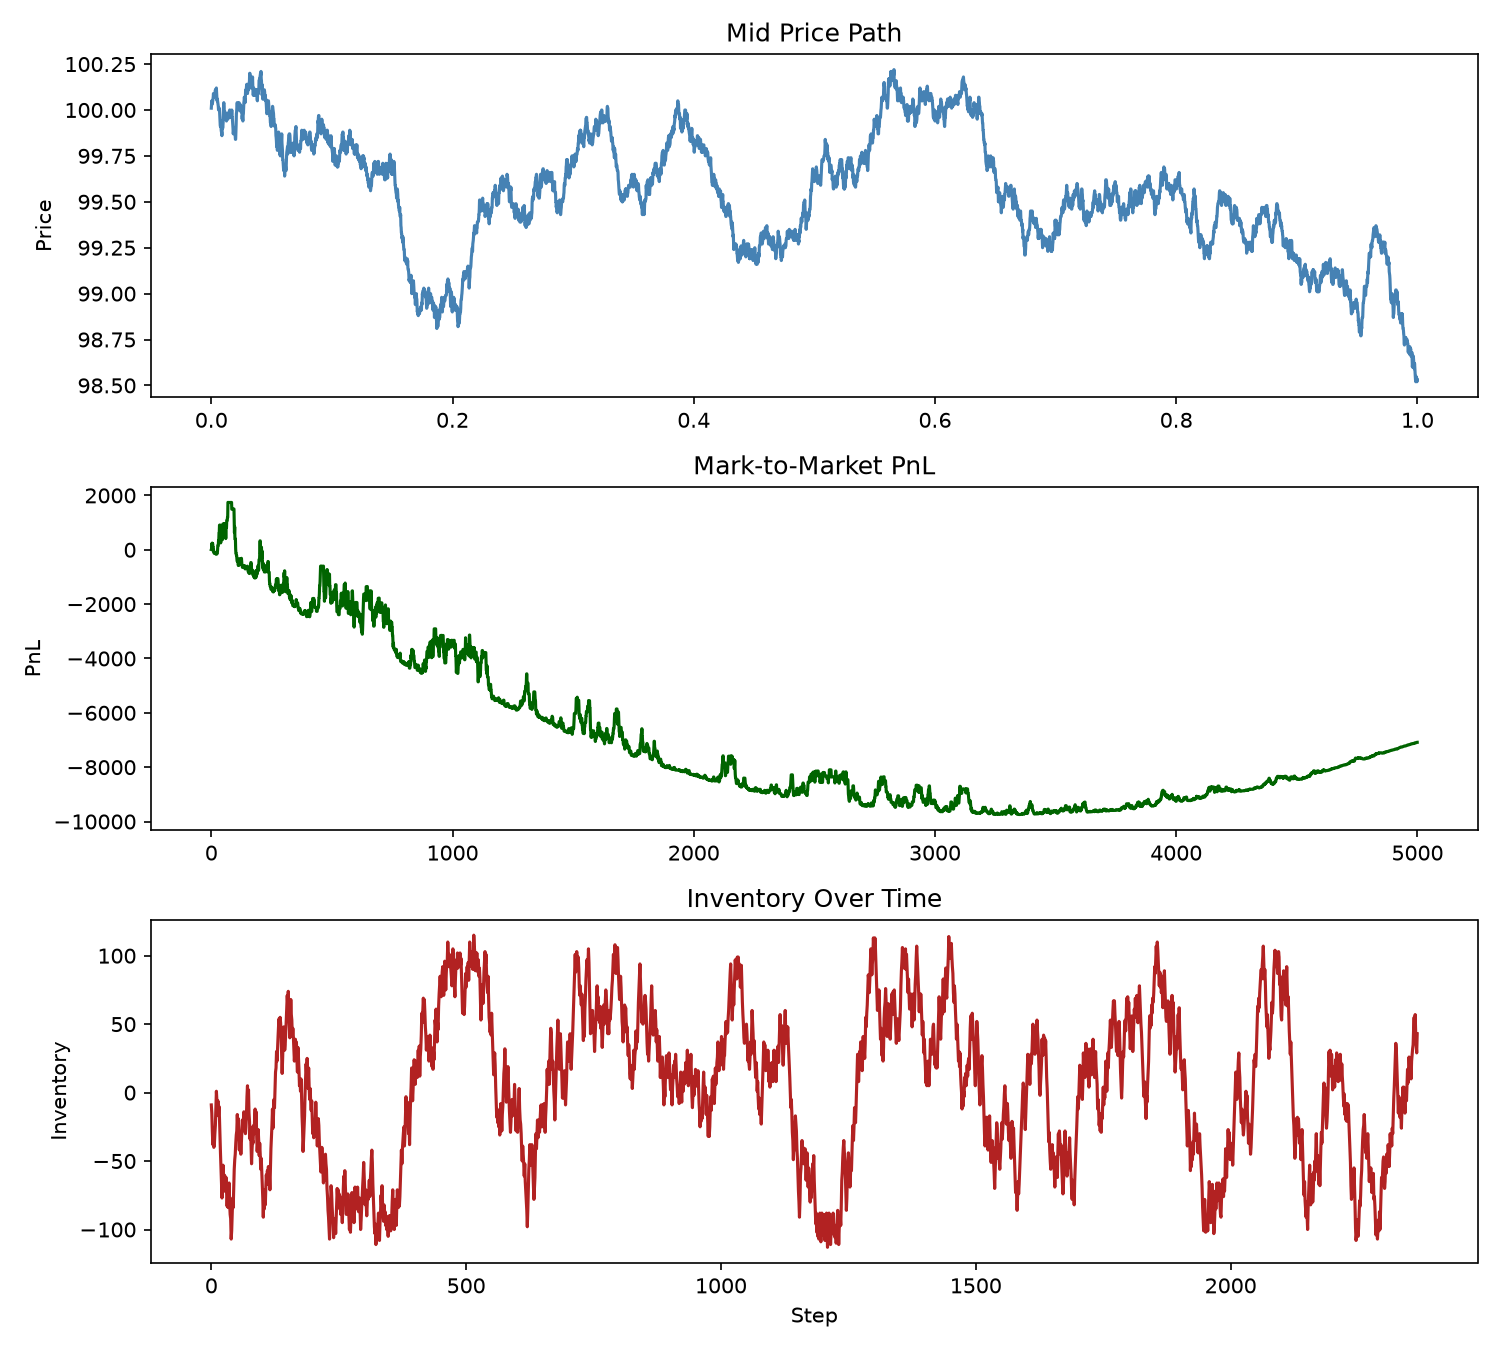
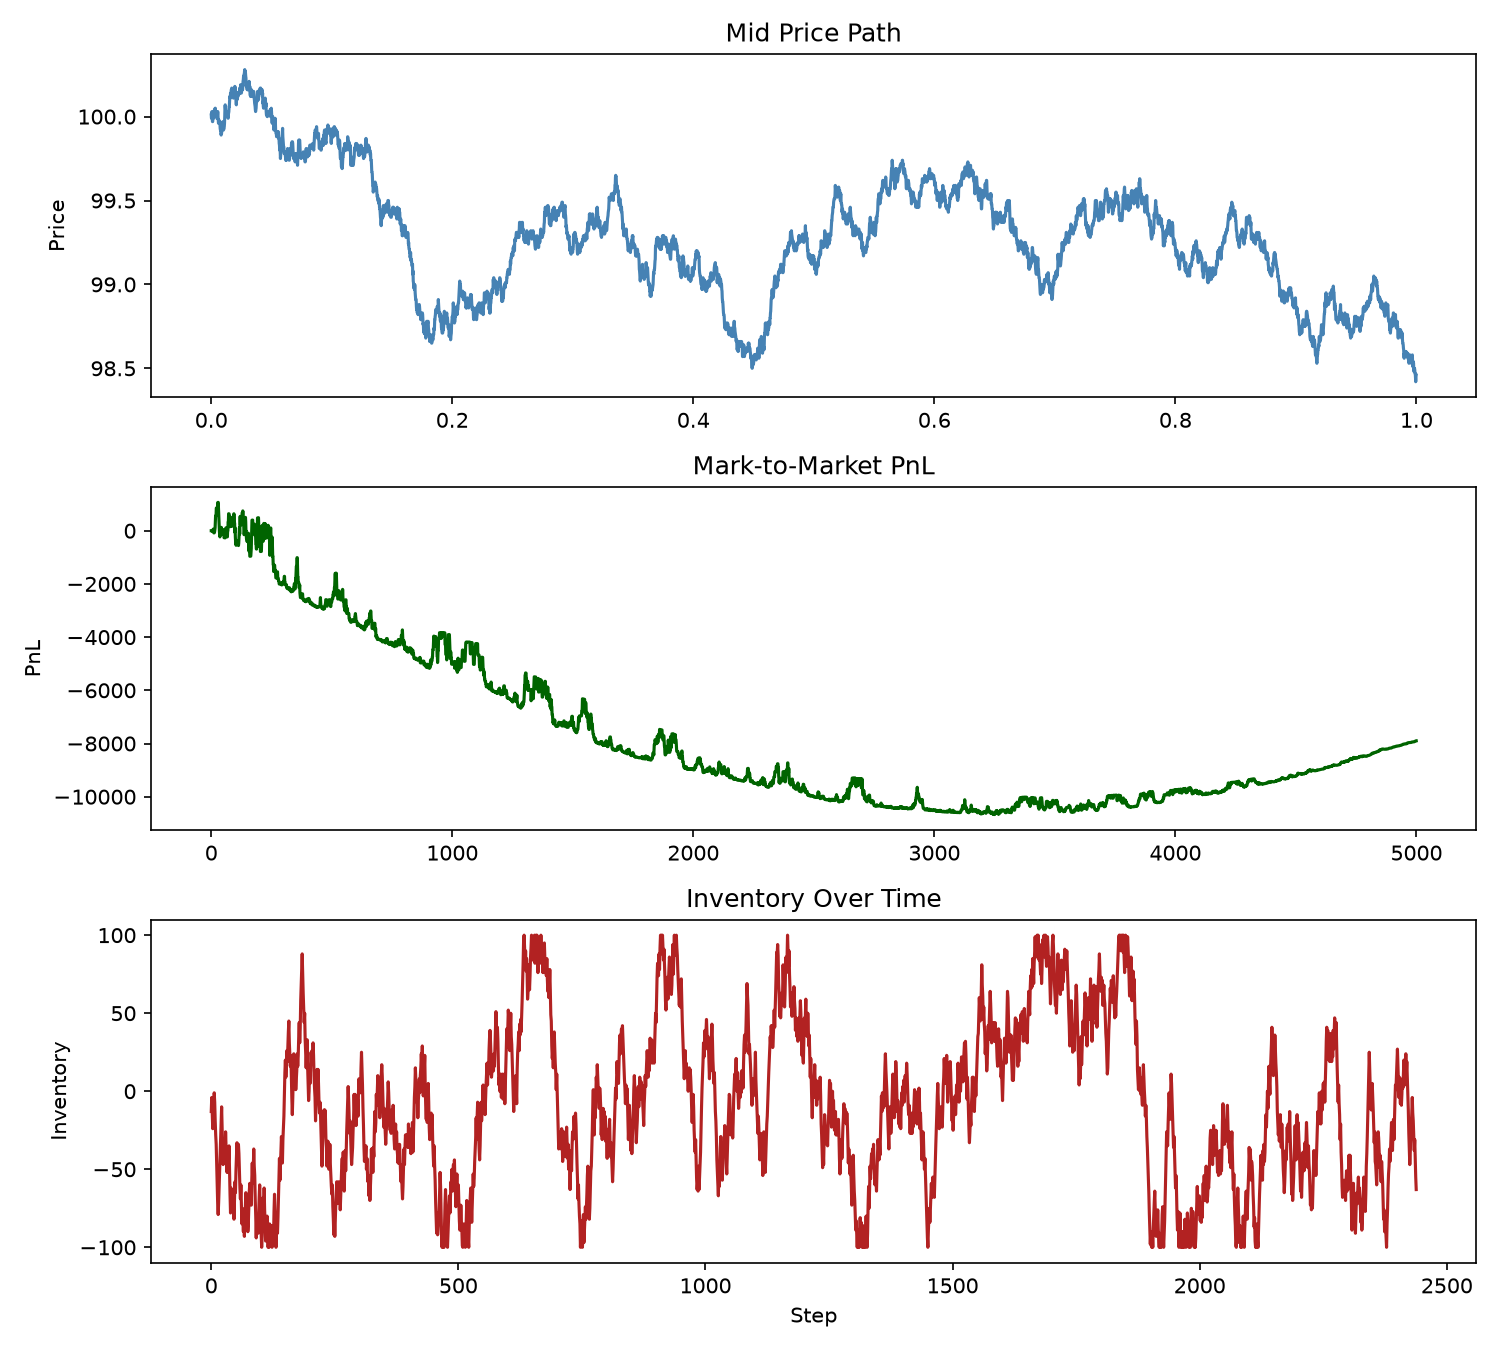
Add gamma sensitivity sweep, document fill-probability limitation

diff --git a/notebooks/gamma_sweep.py b/notebooks/gamma_sweep.py
@@ -1,0 +1,57 @@
+"""
+Parameter sensitivity sweep: compares market maker performance across
+different risk-aversion (gamma) values to show the inventory-risk tradeoff.
+"""
+
+import sys
+import os
+sys.path.insert(0, os.path.join(os.path.dirname(__file__), '..', 'src'))
+
+import matplotlib.pyplot as plt
+from backtester import Backtester
+from market_maker import AvellanedaStoikovMaker
+from order_flow import OrderFlowGenerator
+
+
+def run_single(gamma, seed=42):
+    mm = AvellanedaStoikovMaker(gamma=gamma, sigma=2.0, k=1.5, T=1.0, inventory_limit=100)
+    flow = OrderFlowGenerator(mid_price=100.0, tick_size=0.01, arrival_rate=10,
+                               spread_ticks=5, size_mean=10, seed=seed)
+    bt = Backtester(mm, flow, n_steps=5000, dt=0.0002, fill_prob=0.5, seed=seed)
+    results = bt.run()
+    return mm, results
+
+
+def main():
+    gammas = [0.01, 0.1, 0.5, 1.0]
+    fig, axes = plt.subplots(2, 1, figsize=(10, 8))
+
+    print(f"{'gamma':>8} {'final_pnl':>12} {'final_inventory':>16} {'n_fills':>10}")
+    for gamma in gammas:
+        mm, results = run_single(gamma)
+        final_pnl = results["pnl"][-1] if results["pnl"] else 0.0
+        final_inv = mm.inventory_history[-1] if mm.inventory_history else 0
+        n_fills = len(mm.inventory_history)
+
+        print(f"{gamma:>8} {final_pnl:>12.2f} {final_inv:>16} {n_fills:>10}")
+
+        axes[0].plot(range(len(results["pnl"])), results["pnl"], label=f"gamma={gamma}")
+        axes[1].plot(range(len(mm.inventory_history)), mm.inventory_history, label=f"gamma={gamma}")
+
+    axes[0].set_title("PnL Across Risk Aversion (gamma) Values")
+    axes[0].set_ylabel("PnL")
+    axes[0].legend()
+
+    axes[1].set_title("Inventory Across Risk Aversion (gamma) Values")
+    axes[1].set_ylabel("Inventory")
+    axes[1].set_xlabel("Fill #")
+    axes[1].legend()
+
+    plt.tight_layout()
+    output_path = os.path.join(os.path.dirname(__file__), "gamma_sensitivity.png")
+    plt.savefig(output_path, dpi=150)
+    print(f"\nSaved plot to {output_path}")
+
+
+if __name__ == "__main__":
+    main()
